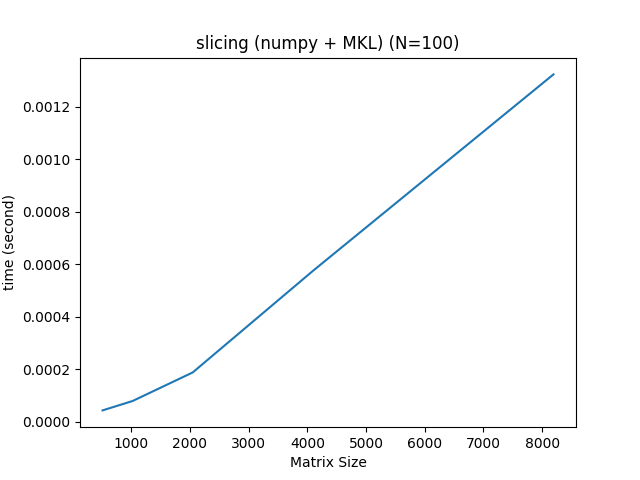
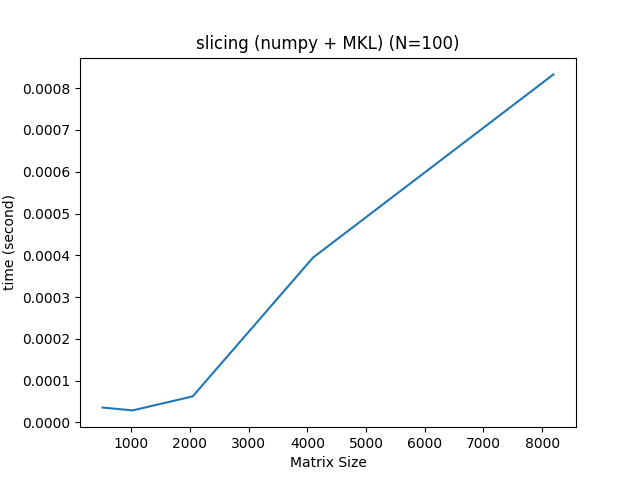
The latest benchmark

diff --git a/benchmark/numpy_benchmark.py b/benchmark/numpy_benchmark.py
@@ -101,7 +101,7 @@ def slicing_bench(K):
 
     def run_test():
         t1 = time()
-        _ = a[:, 200:400].copy()
+        _ = a[200:400, :].copy()
         t2 = time()
         return t2 - t1
     return [run_test() for i in range(N)]

diff --git a/benchmark/torch_benchmark.py b/benchmark/torch_benchmark.py
@@ -94,7 +94,7 @@ def slicing_bench(K):
 
     def run_test():
         t1 = time()
-        _ = a[:, 200:400]
+        _ = a[200:400, :]
         t2 = time()
         return t2 - t1
     return [run_test() for i in range(N)]

diff --git a/benchmark/Result.md b/benchmark/Result.md
@@ -1,6 +1,6 @@
 # Benchmarking
 
-The latest benchmark is executed at 15:05:44 of Saturday, 3/25/2023 (GMT+9)
+The latest benchmark is executed at 16:04:55 of Sunday, 3/26/2023 (GMT+9)
 
 First, as a matrix arithmetic library, I measured benchmarks compared to NumPy as impartial as possible..
 
@@ -23,7 +23,7 @@ all benchmark is working on single-float(np.float32)
 ### cl-waffe
 
 - Working on SBCL [2.1.0]
-- cl-waffe (latest, 15:05:44 of Saturday, 3/25/2023 (GMT+9))
+- cl-waffe (latest, 16:04:55 of Sunday, 3/26/2023 (GMT+9))
 
 ```lisp
 cl-user::*lla-configuration*
